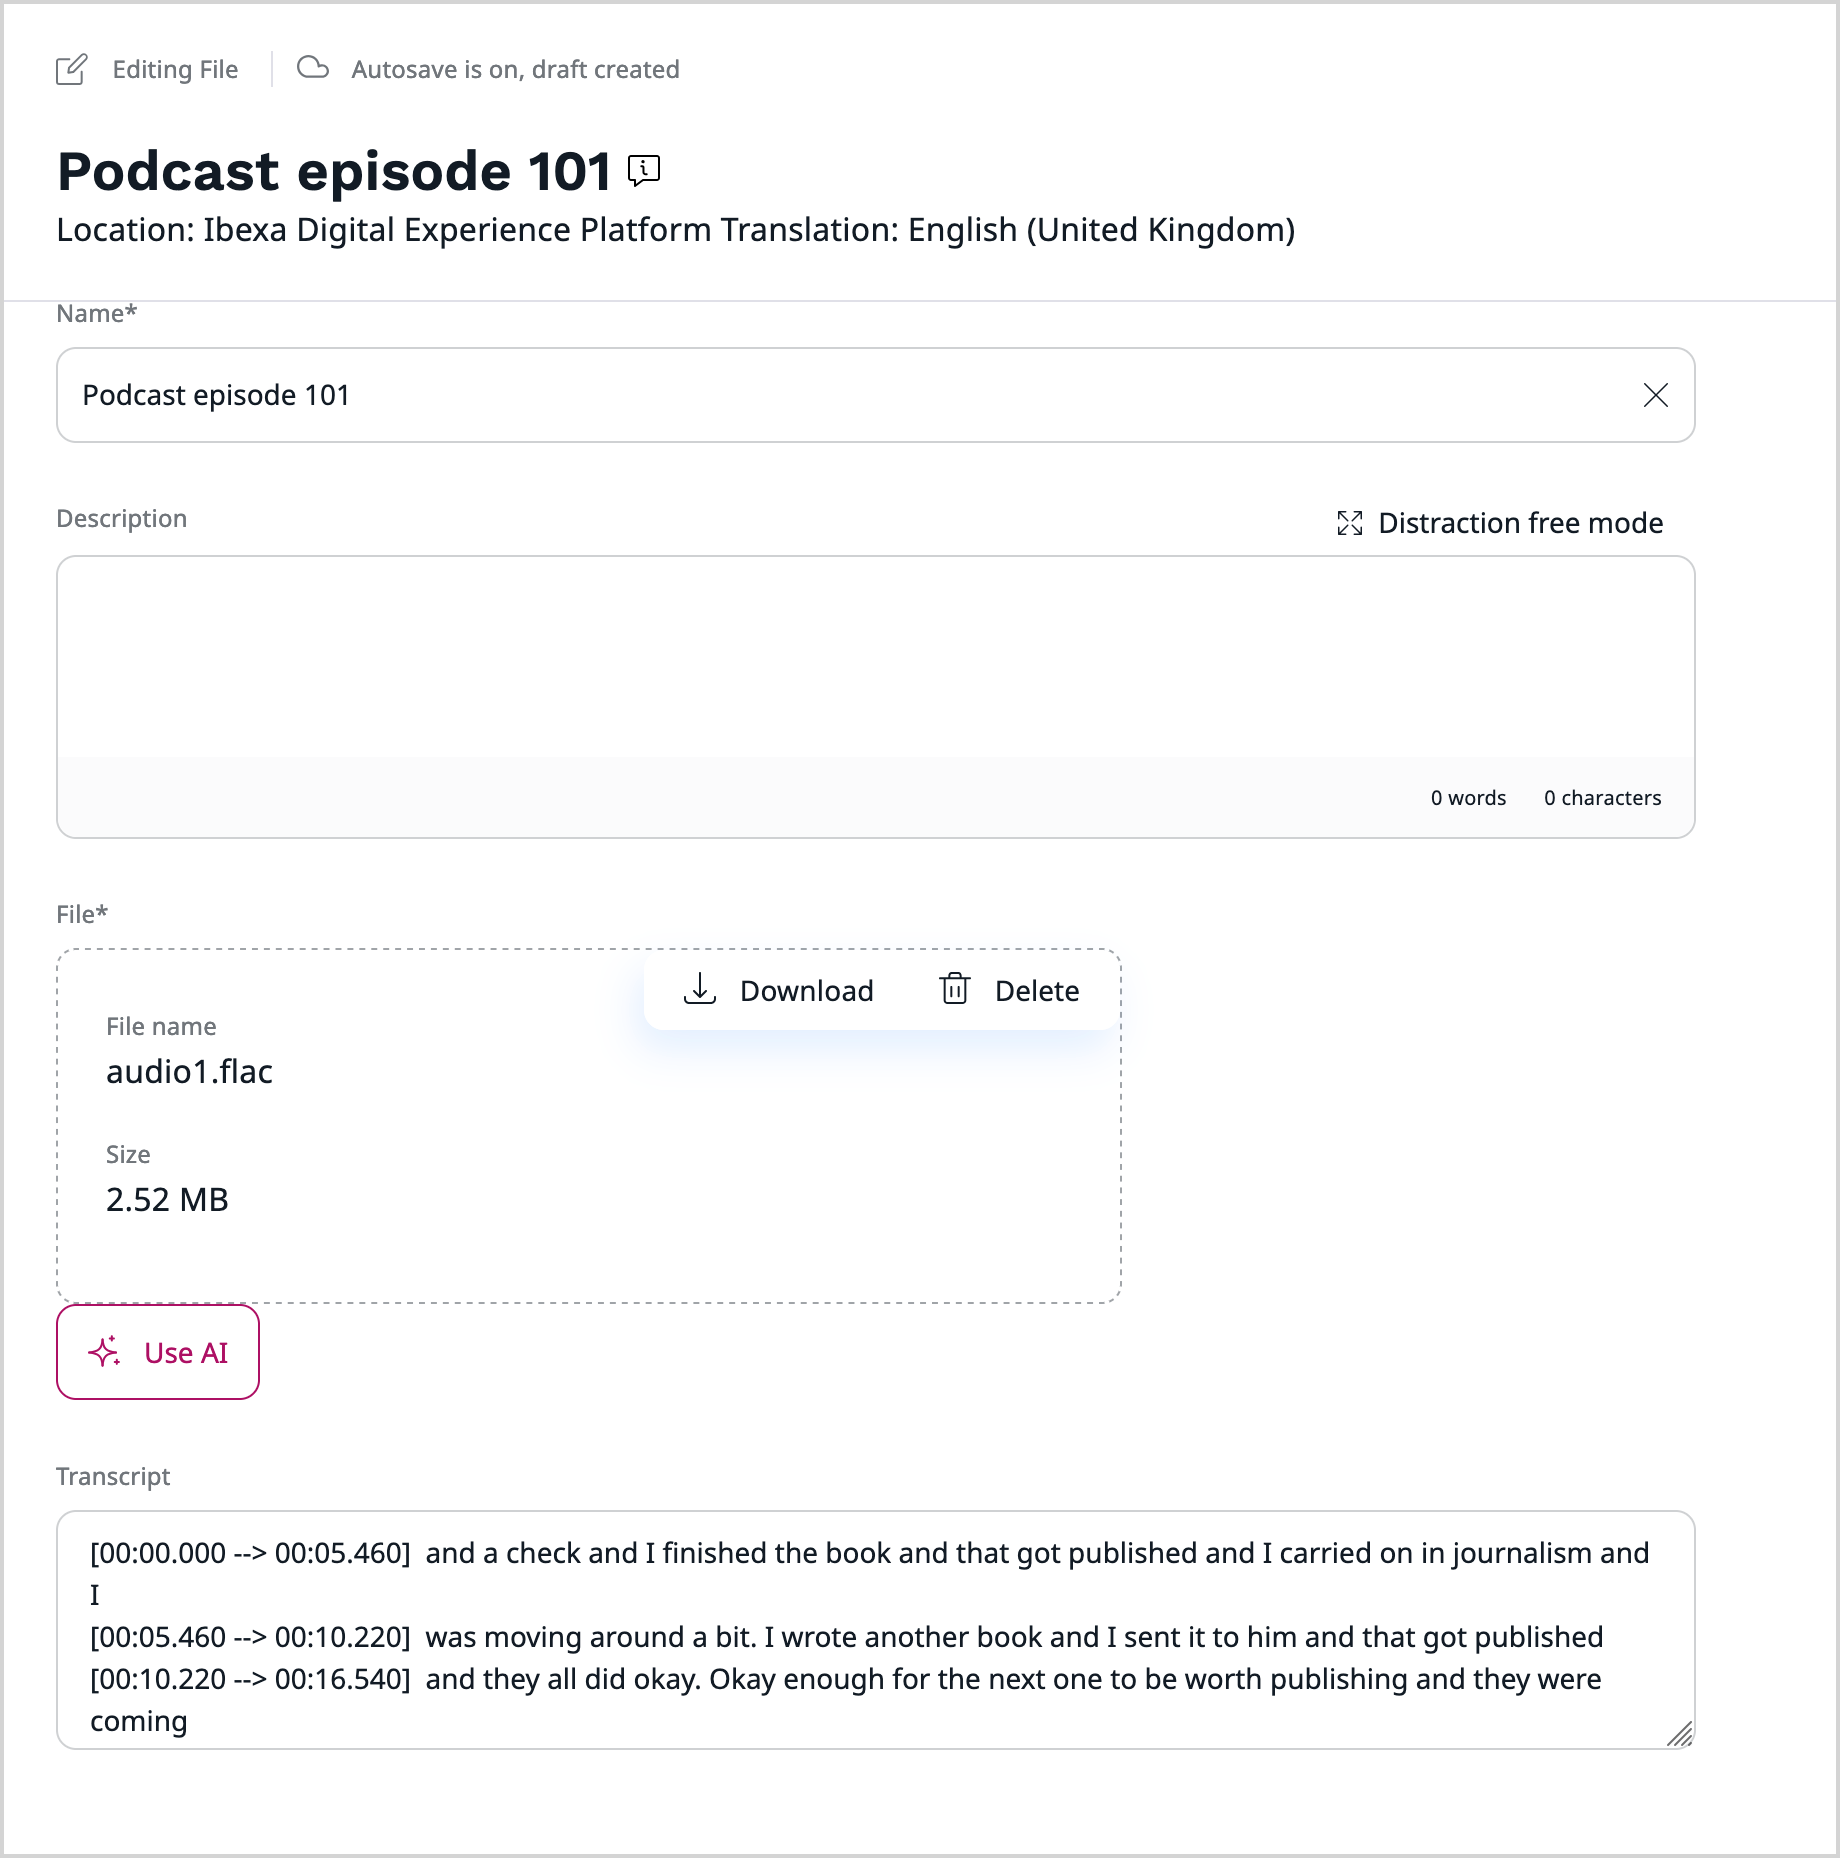
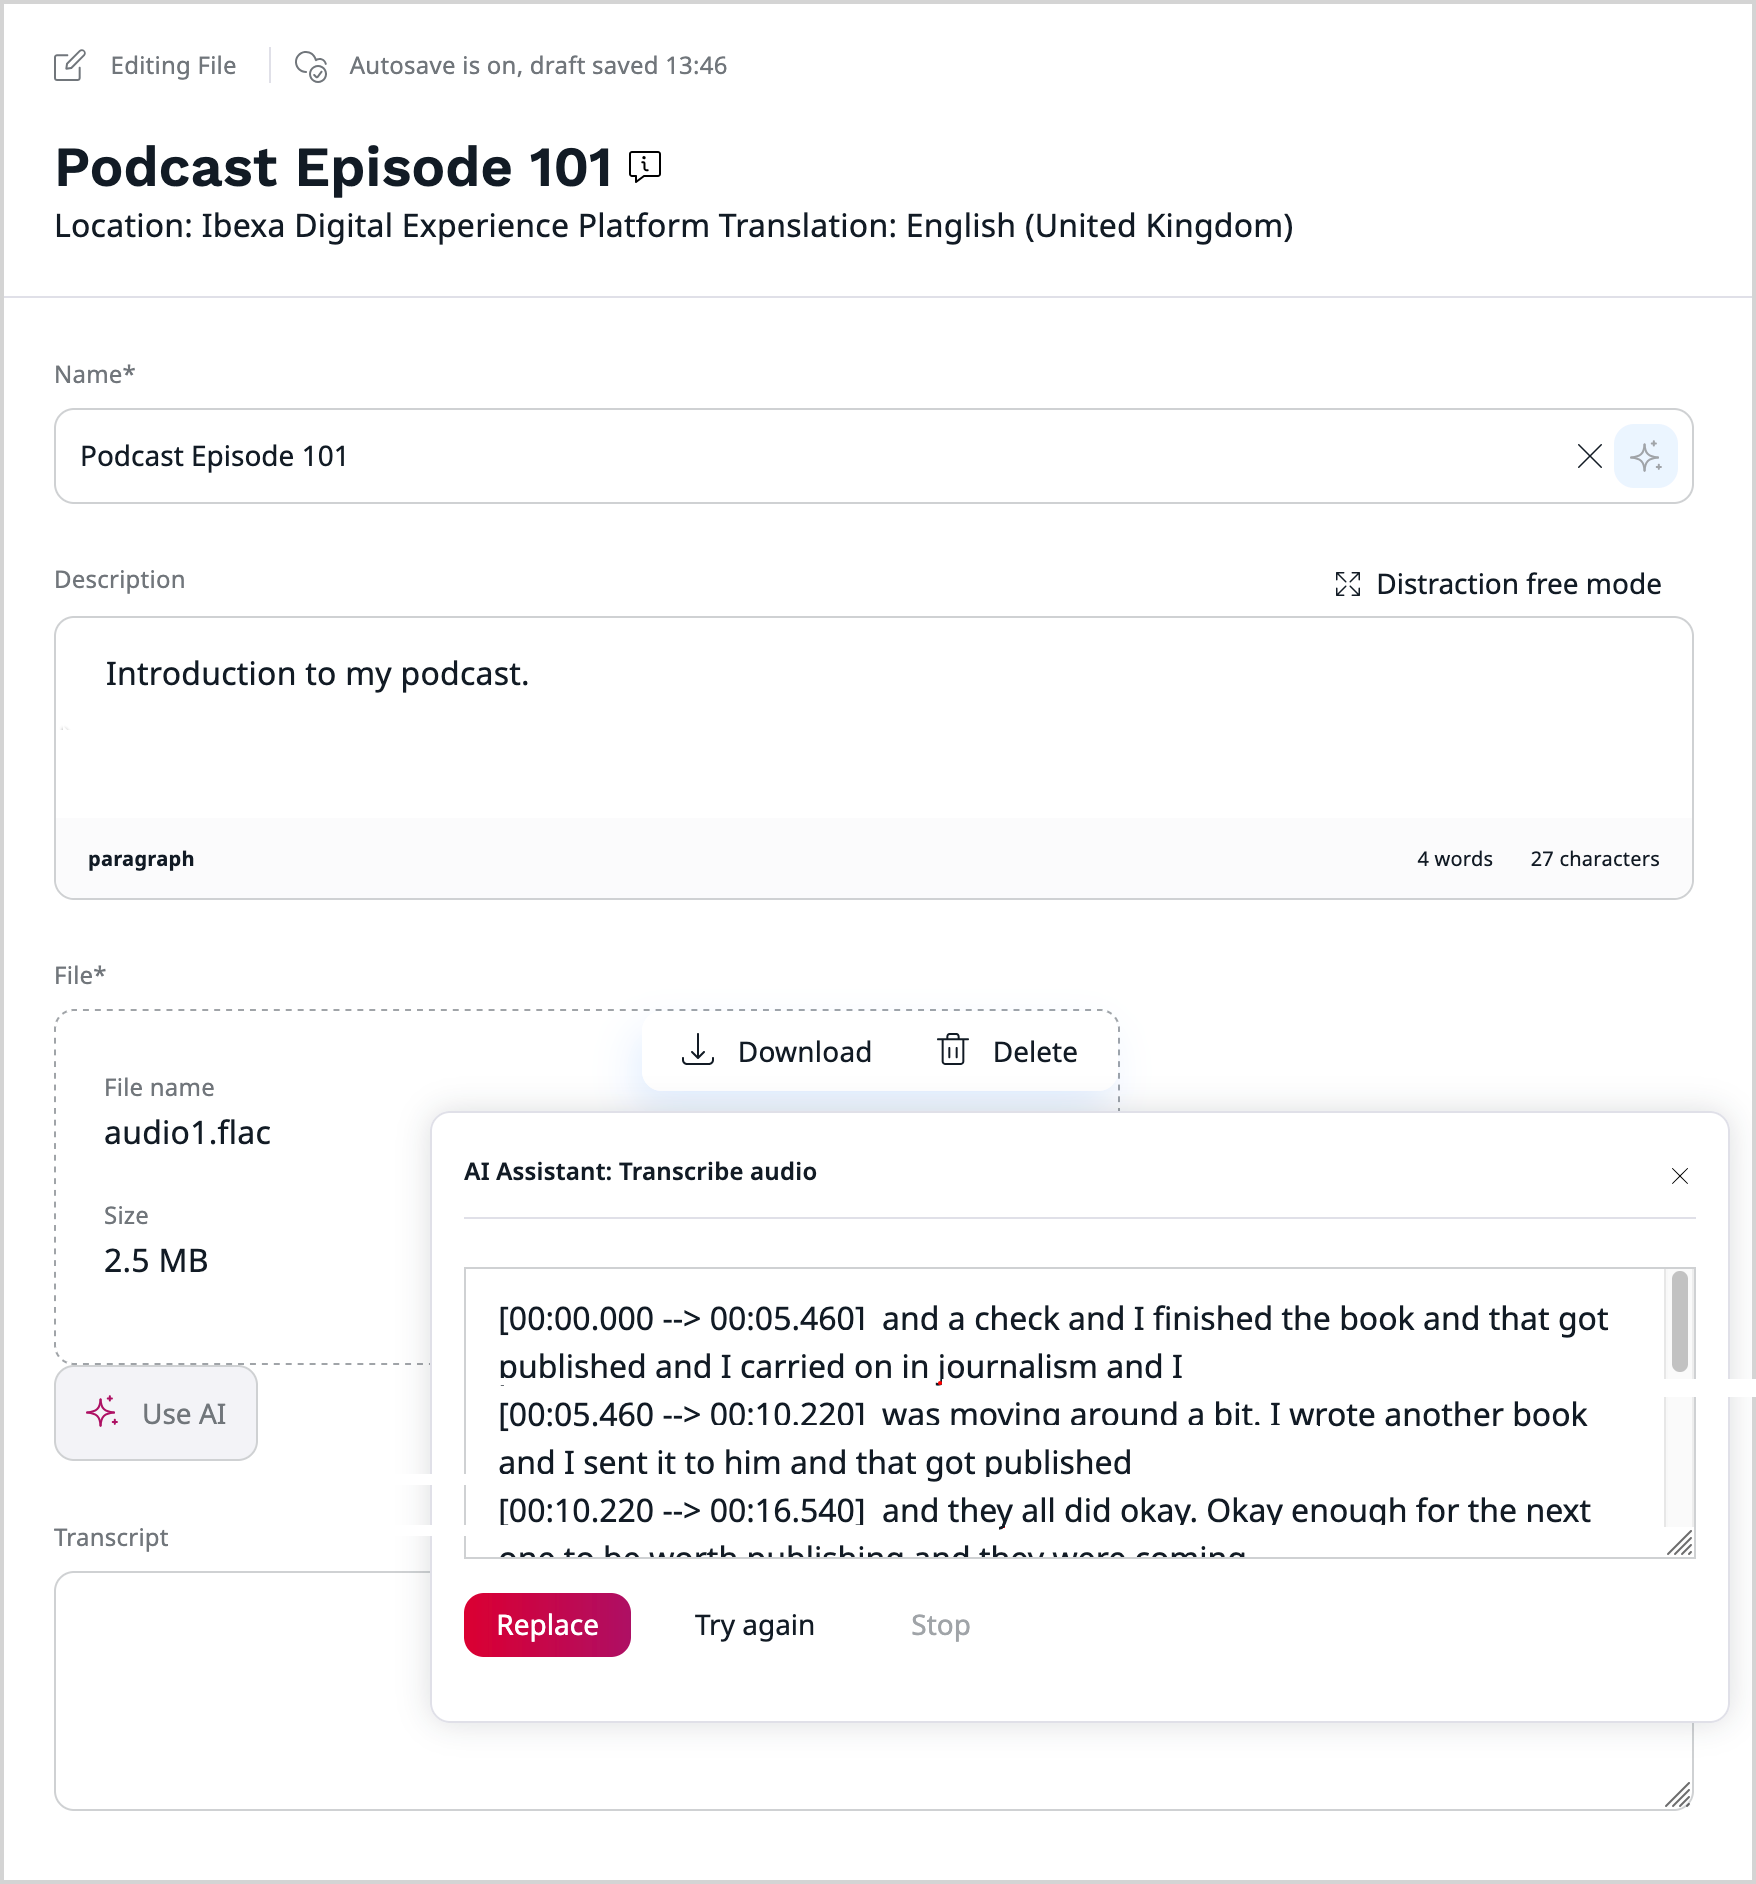
AI assistant (#2589)
* Updated code samples to use AI Assistant

* Updated screenshot

* Mentioned additional supported field types

* PHP & JS CS Fixes

* Updated screenshot

* Removed redundant file extension

diff --git a/code_samples/ai_actions/assets/js/transcribe.audio.js b/code_samples/ai_actions/assets/js/transcribe.audio.js
@@ -1,13 +1,19 @@
-import BaseAIComponent from '../../vendor/ibexa/connector-ai/src/bundle/Resources/public/js/core/base.ai.component';
+import BaseAIAssistantComponent from '@ibexa-connector-ai/src/bundle/Resources/public/js/core/base.ai.assistant.component';
+import Textarea from '@ibexa-connector-ai-modules/ai-assistant/fields/textarea/textarea';
 
-export default class TranscribeAudio extends BaseAIComponent {
-    constructor(mainElement, config) {
-        super(mainElement, config);
+export default class TranscribeAudio extends BaseAIAssistantComponent {
+    constructor(mainElement, extraConfig) {
+        super(mainElement, extraConfig);
 
         this.requestHeaders = {
             Accept: 'application/vnd.ibexa.api.ai.AudioText+json',
             'Content-Type': 'application/vnd.ibexa.api.ai.TranscribeAudio+json',
         };
+
+        this.getRequestBody = this.getRequestBody.bind(this);
+        this.getResponseValue = this.getResponseValue.bind(this);
+
+        this.replacedField = Textarea;
     }
 
     getAudioInBase64() {
@@ -18,16 +24,15 @@ export default class TranscribeAudio extends BaseAIComponent {
 
         if (request.status === 200) {
             return this.convertToBase64(request.responseText);
-        } else {
-            this.processError('Error occured when decoding the file.');
         }
     }
 
     getRequestBody() {
+        const inputValue = this.getInputValue();
         const body = {
             TranscribeAudio: {
                 Audio: {
-                    base64: this.getAudioInBase64(),
+                    base64: inputValue,
                 },
                 RuntimeContext: {},
             },
@@ -40,20 +45,6 @@ export default class TranscribeAudio extends BaseAIComponent {
         return JSON.stringify(body);
     }
 
-    afterFetchData(response) {
-        super.afterFetchData();
-
-        if (response) {
-            this.outputElement.value = response.AudioText.Text.text[0];
-        }
-    }
-
-    toggle(forceEnabled) {
-        super.toggle(forceEnabled);
-
-        this.outputElement.disabled = !forceEnabled || !this.outputElement.disabled;
-    }
-
     convertToBase64(data) {
         let binary = '';
 
@@ -62,5 +53,16 @@ export default class TranscribeAudio extends BaseAIComponent {
         }
 
         return btoa(binary);
+    }
+
+    getResponseValue(response) {
+        return response.AudioText.Text.text[0];
+    }
+
+    handleAIDialogConfirm(responseText) {
+        this.outputElement.value = responseText;
+        this.outputElement.dispatchEvent(new Event('input'));
+
+        super.handleAIDialogClose(responseText);
     }
 }

diff --git a/code_samples/ai_actions/assets/js/addAudioModule.js b/code_samples/ai_actions/assets/js/addAudioModule.js
@@ -1,4 +1,4 @@
-import { addModule } from '../../vendor/ibexa/connector-ai/src/bundle/Resources/public/js/core/create.ai.module';
+import { addModule } from '@ibexa-connector-ai/src/bundle/Resources/public/js/core/create.ai.module';
 import TranscribeAudio from './transcribe.audio';
 
 addModule(TranscribeAudio);

diff --git a/docs/ai_actions/ai_actions_guide.md b/docs/ai_actions/ai_actions_guide.md
@@ -133,11 +133,11 @@ Out of the box, after you configure access to the OpenAI service, the [[= produc
 
 Content editors can benefit from using AI capabilities to [enhance or modify text]([[= user_doc =]]/content_management/create_edit_content_items/#ai-assistant).
 With a few clicks, they can improve content quality or reduce the workload.
-While working on content, editors can select a specific passage and request that AI performs specific actions such as: adjusting the length of the text, changing the tone, or correcting linguistic errors.
+While working on content, editors can request that AI performs specific actions such as: adjusting the length of the text, changing the tone, or correcting linguistic errors.
 
 ![AI Assistant](img/ai_assistant.png)
 
-This functionality is available in content types that include a RichText field, and certain Page Builder blocks.
+This functionality is available in content types that include RichText, Text line, Text Block fields, and certain Page Builder blocks.
 
 ### Generating alternative text
 
